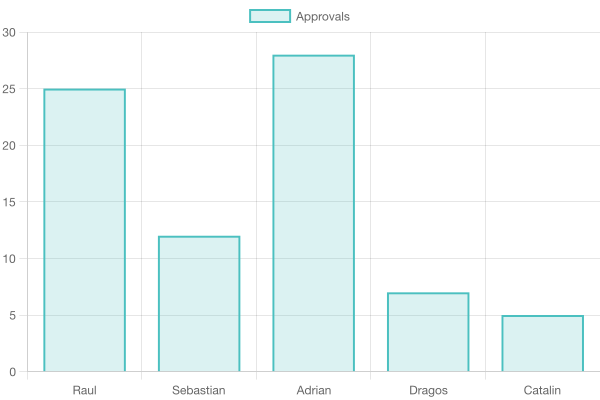
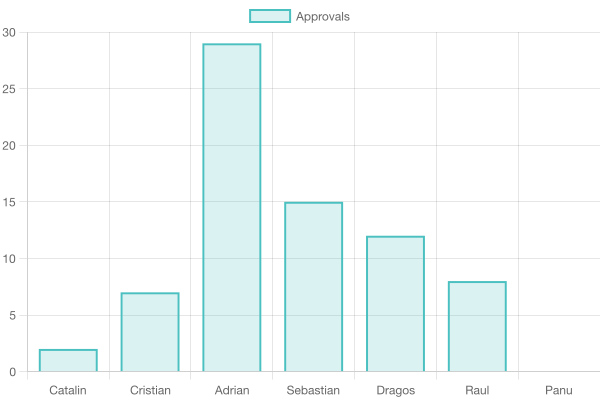
cosmetic change for chart data

diff --git a/gitLabScript.js b/gitLabScript.js
@@ -12,14 +12,15 @@ const params = {
 };
 
 const PROJECT_IDS = ['2282', '2061', '2523', '2070'];
+const eligibleAuthors = ['Sebastian Strulea', 'Adrian Pripon', 'Dragos Bodea', 'Raul Vasile', 'Catalin Poclid', 'Cristian Taloi', 'Panu Umbangtalad'];
 
 // Weekly Span of time.
-const startDate = new Date('05/22/2023 08:00');
-const endDate = new Date('05/29/2023 20:00');
+const startDate = new Date('08/14/2023 08:00');
+const endDate = new Date('08/29/2023 20:00');
 
-// Monthly Span of time.
+// Year to start of month.
 const startOfYearDate = new Date('01/01/2023 08:00');
-const startDateCurrentMonth = new Date('05/01/2023 08:00')
+const startDateCurrentMonth = new Date('08/01/2023 08:00')
 const presentDate = moment();
 
 const RequestHeaders = {
@@ -40,6 +41,7 @@ let comments;
 
 let timeSpentInCodeReview;
 let averageTime;
+
 let averageYearToStartOfMonth;
 let deltaAverageTime;
 let feedbackTimes = [];
@@ -122,9 +124,18 @@ Promise.all(yearToDateMergeRequests)
       "Average Feedback Time": averageFeedbackTime,
       approvals : approvals,
       comments: comments
-    }    
+    }
+    
+    const authors = eligibleAuthors.map(author => author.split(' ')[0]);
+    authors.forEach(author => {
+      if (!codeReview.approvals[author]) {
+        codeReview.approvals[author] = { count: 0 };
+      }
+      if (!codeReview.comments[author]) {
+        codeReview.comments[author] = { count: 0 };
+      }
+    });
 
-    console.log(codeReview)
     //Create the Graphs
     const approvalsGenerator = new ChartGenerator(codeReview.approvals, 'Approvals');
     approvalsGenerator.createChart();
@@ -181,7 +192,6 @@ Promise.all(yearToDateMergeRequests)
 
  const setApprovals = (notes) => {
   let approvals = [];
-  const eligibleAuthors = ['Sebastian Strulea', 'Adrian Pripon', 'Dragos Bodea', 'Raul Vasile', 'Catalin Poclid', 'Cristian Taloi', 'Panu Umbangtalad'];
 
   approvals = notes.flat(2)
       .filter(note => note.body == 'approved this merge request' && eligibleAuthors.includes(note.author.name))
@@ -193,11 +203,10 @@ Promise.all(yearToDateMergeRequests)
 
   const setComments = (disscusions) => {
     let comments = [];
-    // This may be improved by using the /discussions endpoint.
-    // Some comments may be lost as they have type null even tho they are a comment. Need to test more.
     comments =  disscusions.flat(2)
-      .filter(disscusion => isActualComment(disscusion))
+      .filter(disscusion => isActualComment(disscusion) && eligibleAuthors.includes(disscusion.author.name))
       .map(disscusion => {
+        console.log(disscusion)
        return { name:disscusion.author.name, id: disscusion.author.id, body: disscusion.body }
       });
     return countAndFormat(comments);
